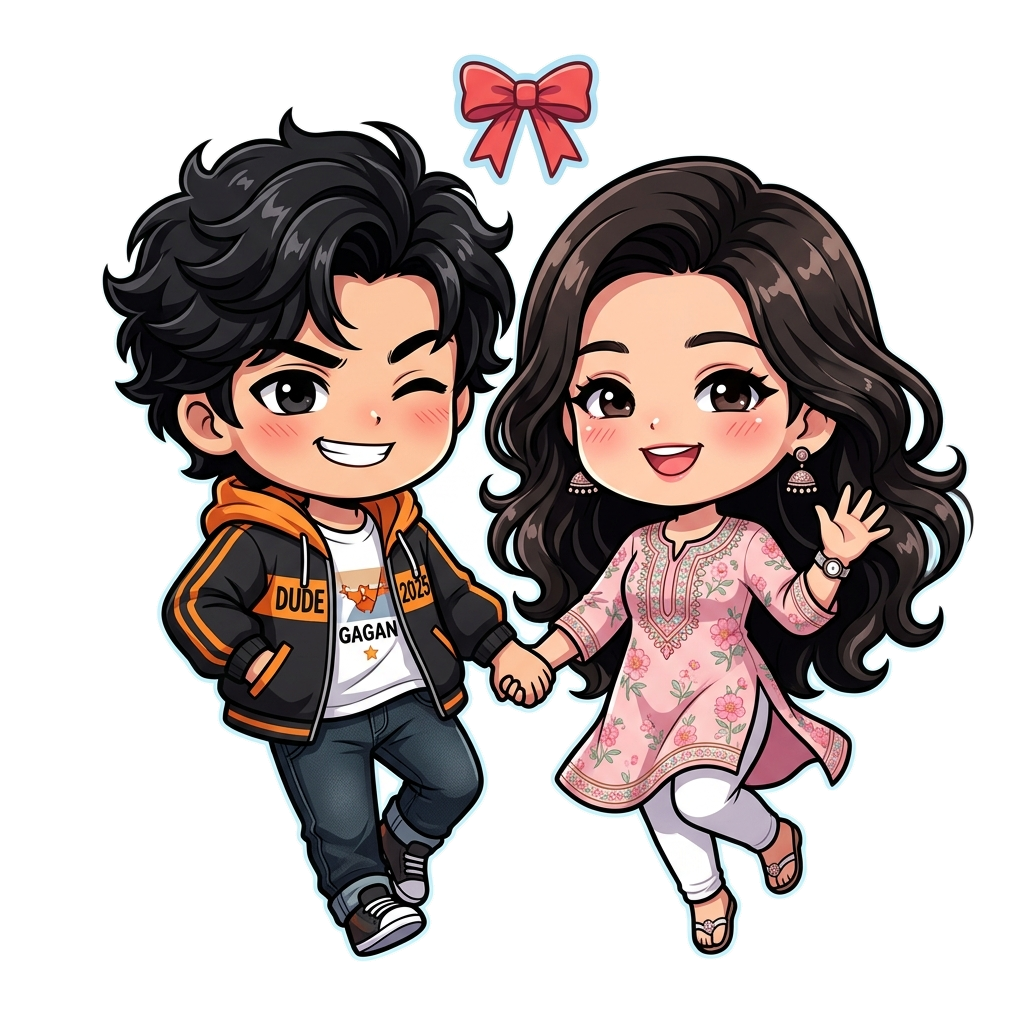
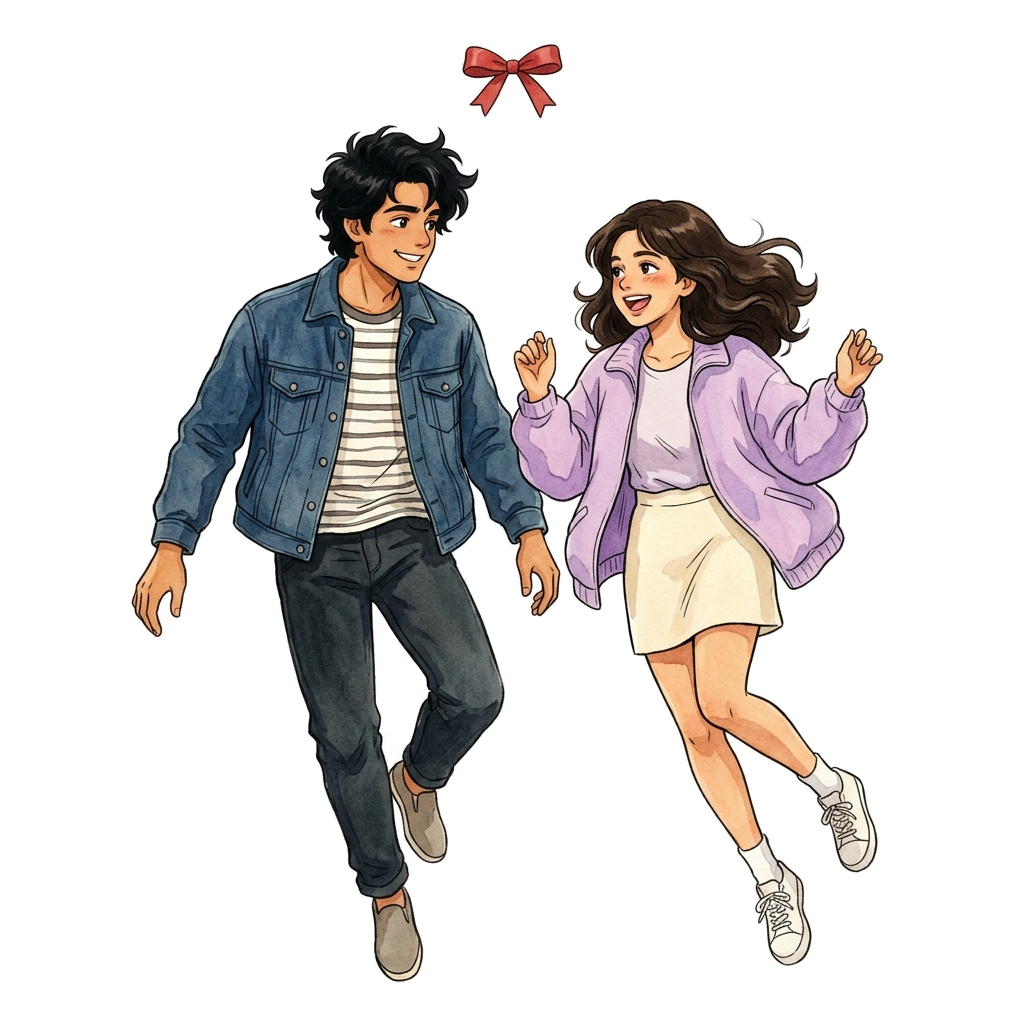
feat: transform Dude movie (Gagan & Kundana) into Studio Ghibli art style
- Reimagined Gagan (Pradeep Ranganathan) and Kundana (Mamitha Baiju) in authentic Studio Ghibli watercolor anime aesthetic.
- Preserved master art in art/dude_ghibli_original.jpg.
- Generated new transparent RGBA cutouts in public/gagan_kundana.png and public/gagan_kundana_512.png.
- Updated presets.ts and README.md with Ghibli edition details.

diff --git a/src/constants/presets.ts b/src/constants/presets.ts
@@ -48,20 +48,20 @@ export const DEFAULT_CHARACTERS: CharacterConfig[] = [
   {
     id: 'gagan_kundana',
     name: 'Gagan & Kundana (Dude)',
-    personality: 'Gagan and Kundana from the rom-com blockbuster Dude (2025) — chaotic best friends, event planners, and loving cousins bound together on your desktop.',
+    personality: 'Gagan and Kundana from the blockbuster Dude (2025) reimagined in classic Studio Ghibli watercolor anime style — floating together in nostalgic romance on your desktop.',
     hairStyle: 'curly',
-    hairColor: '#1c1917',
-    hairHighlight: '#44403c',
+    hairColor: '#292524',
+    hairHighlight: '#57534e',
     eyeStyle: 'anime_round',
-    eyeColor: '#78350f',
+    eyeColor: '#451a03',
     skinTone: '#fff1f2',
-    hoodieColor: '#ea580c', // Orange & black streetwear jacket for Gagan
-    hoodieAccent: '#f43f5e', // Pink floral kurti for Kundana
+    hoodieColor: '#1d4ed8', // Classic Ghibli denim jacket for Gagan
+    hoodieAccent: '#c084fc', // Pastel lavender jacket for Kundana
     hoodiePocket: true,
     accessories: ['ribbon'],
-    accessoryColor: '#f43f5e',
+    accessoryColor: '#dc2626',
     threadType: 'crimson_silk',
-    threadColor: '#f43f5e',
+    threadColor: '#dc2626',
     threadLength: 175,
     scale: 1.05,
     currentExpression: 'happy',

diff --git a/README.md b/README.md
@@ -23,7 +23,7 @@ Features **native click-through pass-through** (using X11 shape masking) so you 
 | **Reze & Denji** (*Chainsaw Man*) | **Eren & Mikasa** (*Attack on Titan*) | **Gagan & Kundana** (*Dude*) |
 |:---:|:---:|:---:|
 | <img src="public/reze_denji_512.png" width="200" alt="Reze and Denji Desktop Pet" /> | <img src="public/eren_mikasa_512.png" width="200" alt="Eren and Mikasa Desktop Pet" /> | <img src="public/gagan_kundana_512.png" width="200" alt="Gagan and Kundana Desktop Pet" /> |
-| *Crimson Thread & "In the pool" OST* | *Red Scarf of Fate & Scout Cloak* | *DUDE 2025 Streetwear & Kurti* |
+| *Crimson Thread & "In the pool" OST* | *Red Scarf of Fate & Scout Cloak* | *Studio Ghibli Edition • Nostalgic Romance* |
 
 ### ⚔ Demon Slayer (*Kimetsu no Yaiba*)
 | **Tanjiro Kamado** | **Nezuko Kamado** | **Zenitsu Agatsuma** | **Inosuke Hashibira** |
